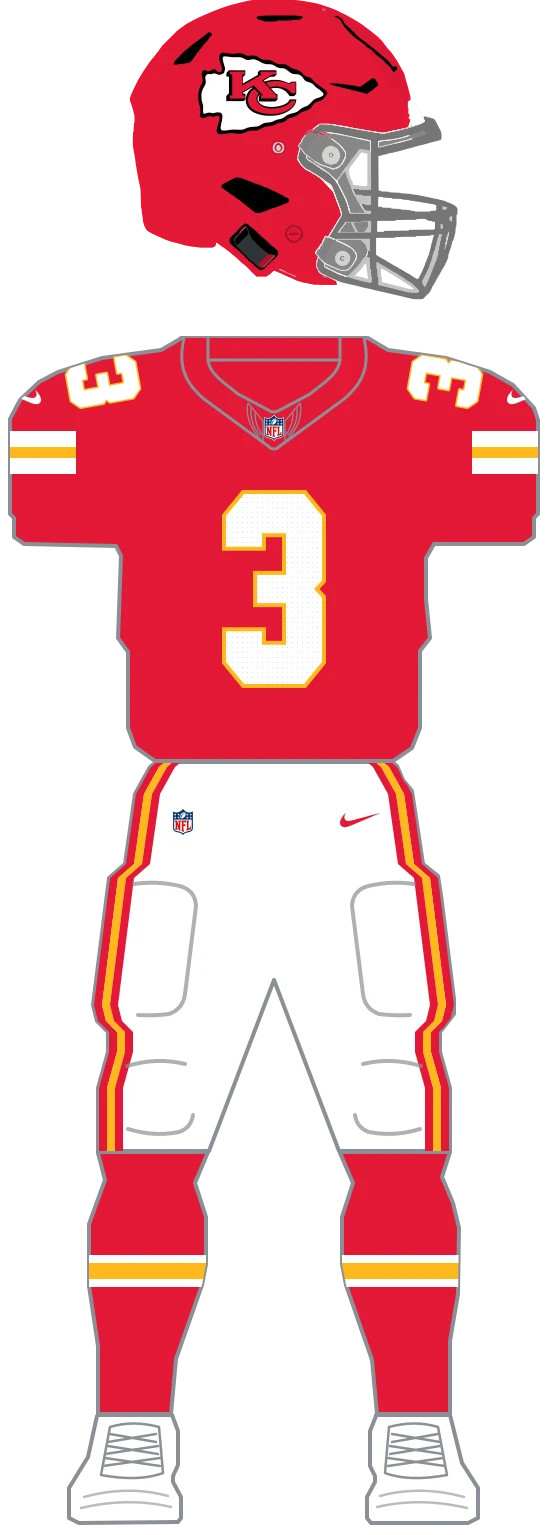
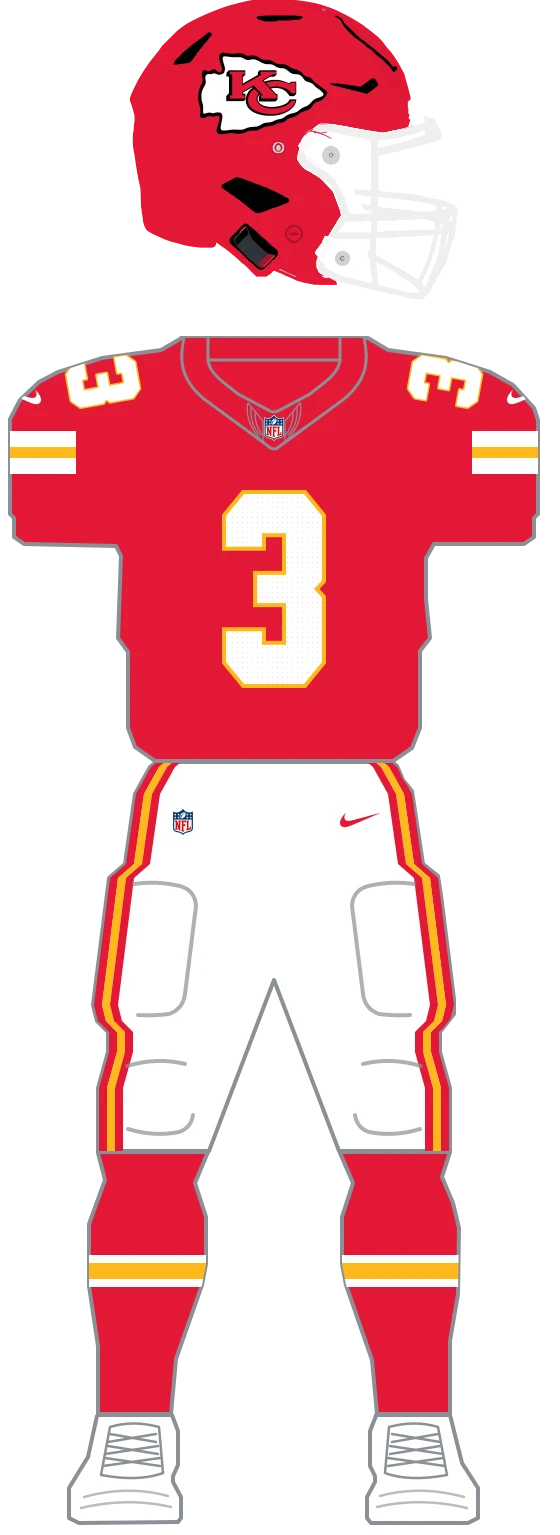
fix(uniforms): draw the white facemask cage for the Chiefs (#1142)

Changed region(s): [[0.5161, 0.0612, 0.8196, 0.2143]]

diff --git a/web/lib/uniforms/teams/chiefs/parts.ts b/web/lib/uniforms/teams/chiefs/parts.ts
@@ -10,16 +10,14 @@ export const CHIEFS_PALETTE = {
   gold: '#FFB81C',
   white: '#FFFFFF',
   black: '#010101',
-  // The light-grey facemask cage.
-  grey: '#868686',
 };
 
 export const CHIEFS_SPEC: TeamSpec = {
   helmets: {
-    // The red arrowhead shell on both kits, with a light-grey cage.
+    // The red arrowhead shell on both kits, with a white cage.
     'red-arrowhead': {
       shell: 'red',
-      facemask: 'grey',
+      facemask: 'white',
       decal: CHIEFS_ARROWHEAD_DECAL,
       number: 'none',
     },
